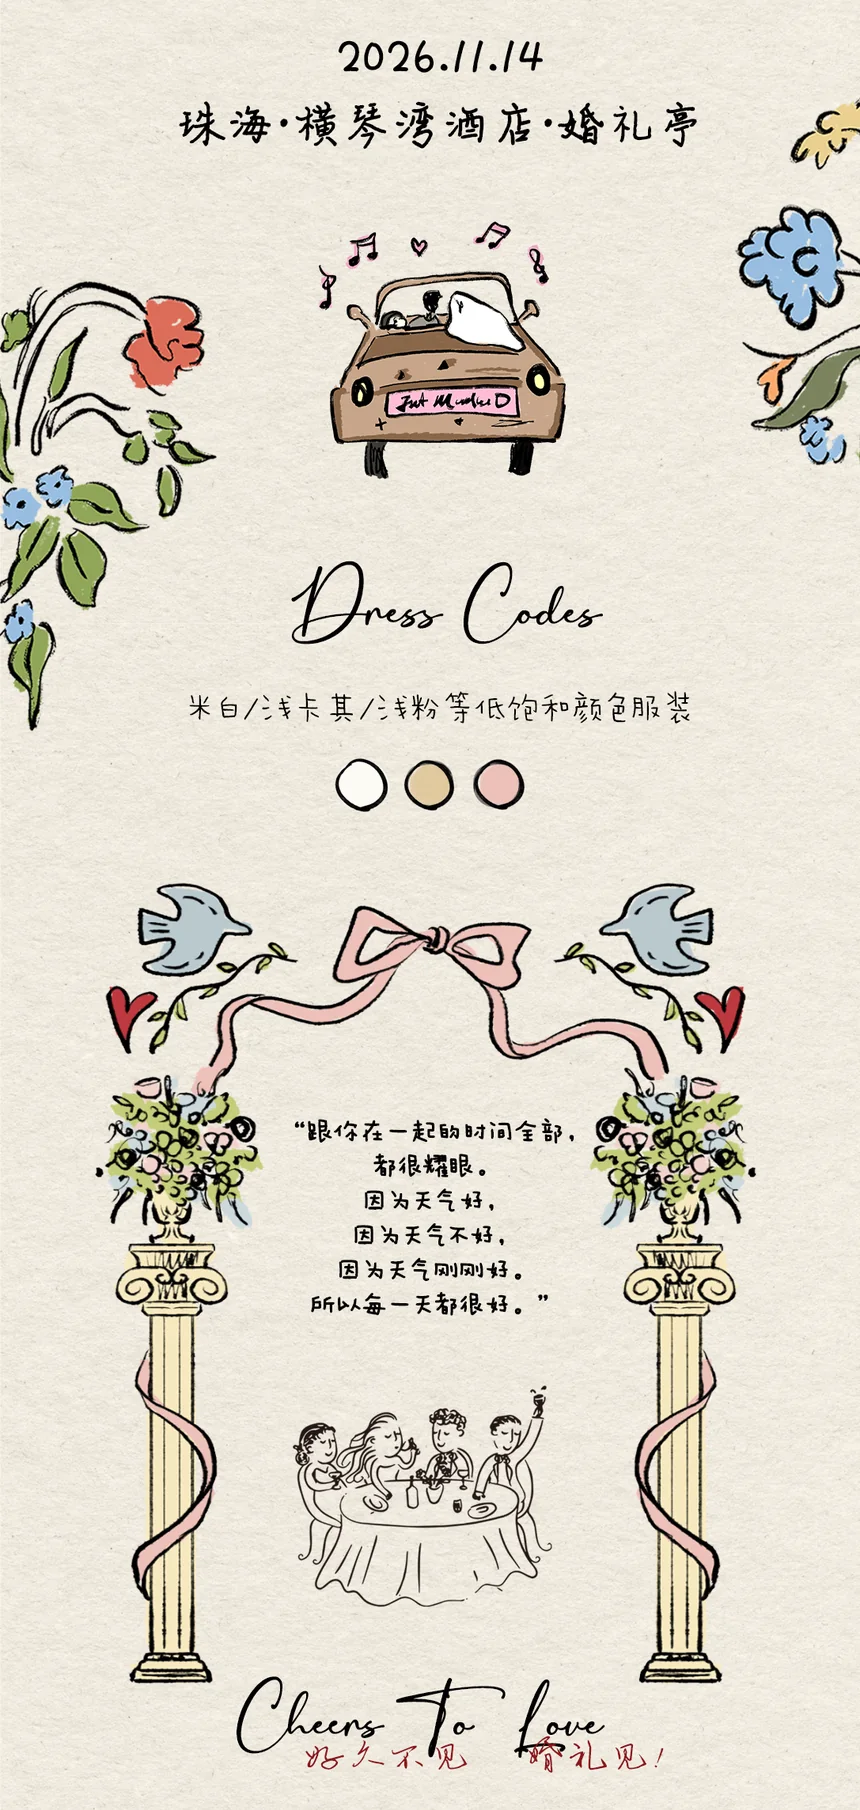
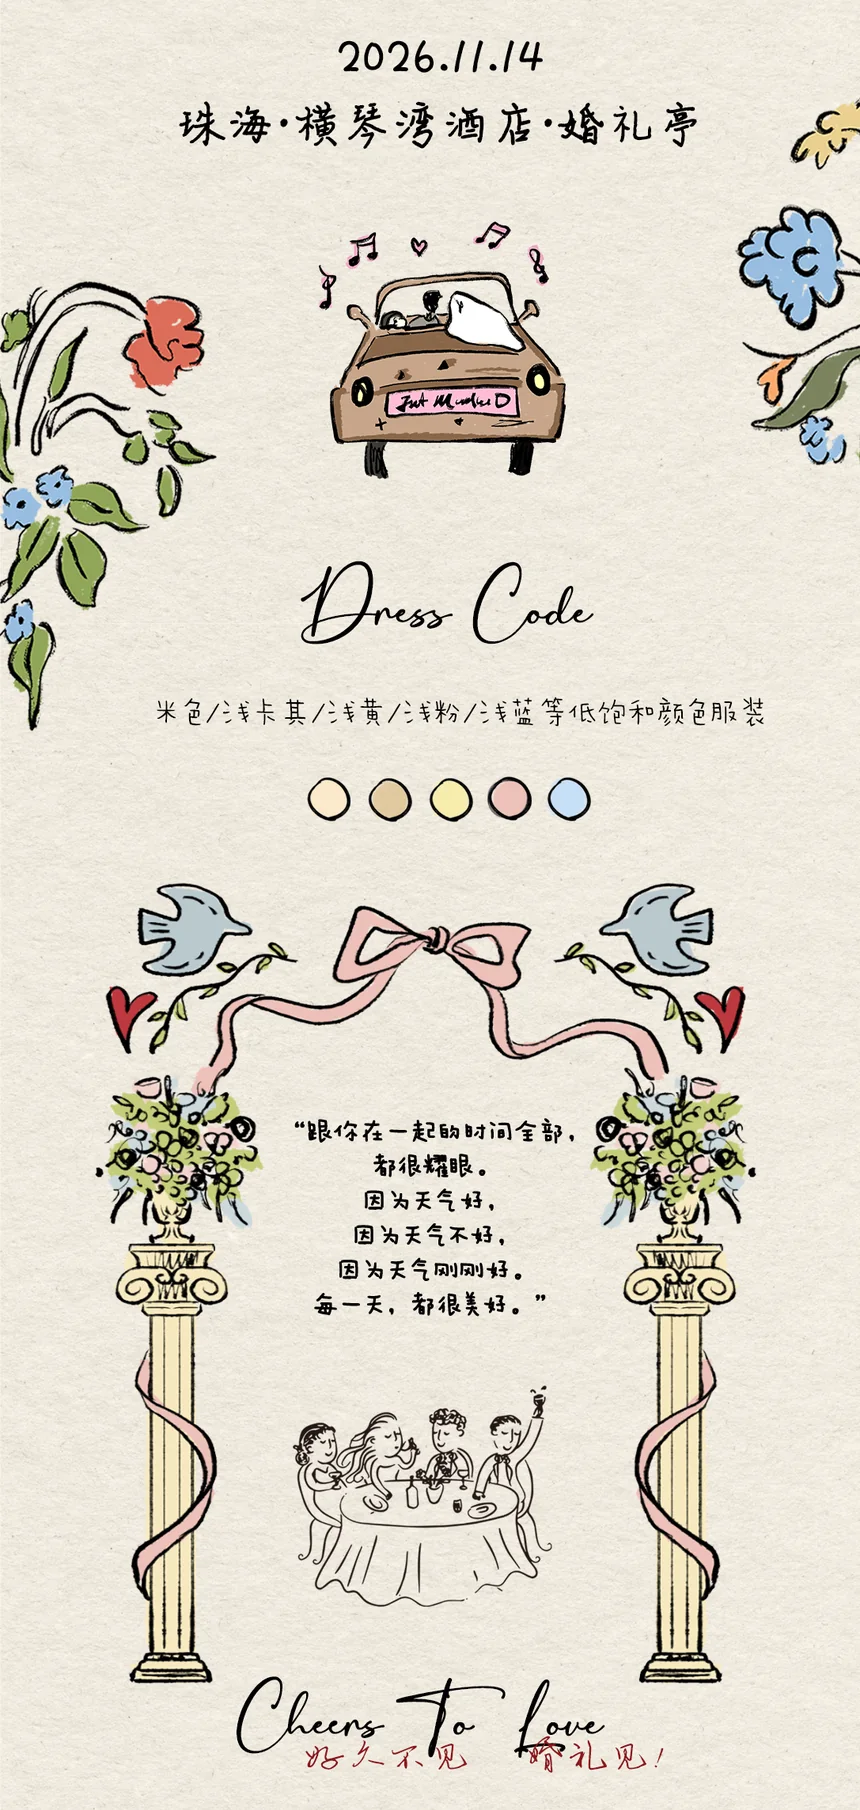
Re-cut from the revised artwork and follow the new dress code
The source illustration was reworked in three places, all inside the two page
images (nothing changed above row 3132, so the hero video and the cut points
at 2280 / 4105 are unaffected -- both still land on blank rows, ink 0-2):

  - Timeline 16:00 icon: camera -> scroll and quill (the English artwork
    already used the scroll and quill, so this aligns zh with en)
  - Dress code: title Dress Codes -> Dress Code, three swatches -> five, and
    the caption now reads cream / light khaki / pale yellow / blush pink /
    light blue
  - Closing quote: the last line is now 每一天，都很美好。

The dress code is described in eight places, not one -- the notice page in
both languages, the .ics description, both page-image alt texts, and the
wallet-card generator outside this repo. All eight are updated here so the
site does not contradict the artwork. The swatch colours are sampled from the
new artwork itself (#fbe9ca / #e0c99e / #f6ecab / #ecc0b8 / #c6dff7) rather
than reused from the old hand-tuned values, which no longer describe the
colours that are drawn.

en/assets/*.webp are byte-identical: invitation_eng.png was not revised, so
its dress code still shows three swatches and the old caption. Its text
already matches the new artwork everywhere else.

Changed region(s): [[0.1814, 0.3094, 0.8767, 0.4641], [0.4837, 0.7116, 0.6047, 0.7425], [0.3628, 0.7116, 0.4535, 0.7425]]

diff --git a/notice-en.html b/notice-en.html
@@ -67,11 +67,13 @@
   <!-- DRESS CODE -->
   <section class="card" id="dress">
     <h2><span class="em">👔</span>Dress Code<span class="en">What to wear</span></h2>
-    <p class="lede"><b>Soft, muted tones</b> — off-white, sand and pale pink all work beautifully. The ceremony is on a lawn, so block heels or flats are kinder to your feet.</p>
+    <p class="lede"><b>Soft, muted tones</b> — cream, light khaki, pale yellow, blush pink and light blue all work beautifully. The ceremony is on a lawn, so block heels or flats are kinder to your feet.</p>
     <div class="swatches">
-      <span class="sw"><i style="background:#f3ede1"></i>Off-white</span>
-      <span class="sw"><i style="background:#d9c8a4"></i>Sand</span>
-      <span class="sw"><i style="background:#e9c7c3"></i>Pale pink</span>
+      <span class="sw"><i style="background:#fbe9ca"></i>Cream</span>
+      <span class="sw"><i style="background:#e0c99e"></i>Light khaki</span>
+      <span class="sw"><i style="background:#f6ecab"></i>Pale yellow</span>
+      <span class="sw"><i style="background:#ecc0b8"></i>Blush pink</span>
+      <span class="sw"><i style="background:#c6dff7"></i>Light blue</span>
     </div>
   </section>
 

diff --git a/notice.html b/notice.html
@@ -67,11 +67,13 @@
   <!-- 着装建议 -->
   <section class="card" id="dress">
     <h2><span class="em">👔</span>着装建议<span class="en">Dress Code</span></h2>
-    <p class="lede"><b>低饱和浅色系</b> —— 米白、浅卡其、浅粉都很合适。仪式在户外草地，建议选<b>低跟或粗跟鞋</b>，走在草坪上更稳。</p>
+    <p class="lede"><b>低饱和浅色系</b> —— 米色、浅卡其、浅黄、浅粉、浅蓝都很合适。仪式在户外草地，建议选<b>低跟或粗跟鞋</b>，走在草坪上更稳。</p>
     <div class="swatches">
-      <span class="sw"><i style="background:#f3ede1"></i>米白</span>
-      <span class="sw"><i style="background:#d9c8a4"></i>浅卡其</span>
-      <span class="sw"><i style="background:#e9c7c3"></i>浅粉</span>
+      <span class="sw"><i style="background:#fbe9ca"></i>米色</span>
+      <span class="sw"><i style="background:#e0c99e"></i>浅卡其</span>
+      <span class="sw"><i style="background:#f6ecab"></i>浅黄</span>
+      <span class="sw"><i style="background:#ecc0b8"></i>浅粉</span>
+      <span class="sw"><i style="background:#c6dff7"></i>浅蓝</span>
     </div>
   </section>
 

diff --git a/en/index.html b/en/index.html
@@ -77,7 +77,7 @@
     <!-- 3 / 4 · Date, venue, dress code + message -->
     <section class="page">
       <img class="page-img" src="assets/pg3.webp"
-           alt="November 14, 2026 · Zhuhai · Hengqin Bay Hotel · Wedding Pavilion · Dress Code: soft, muted tones — off-white, light khaki, blush pink · Cheers To Love">
+           alt="November 14, 2026 · Zhuhai · Hengqin Bay Hotel · Wedding Pavilion · Dress Code: soft, muted tones — cream, light khaki, pale yellow, blush pink, light blue · Cheers To Love">
     </section>
 
     <!-- 4 / 4 · Actions (three entries only: RSVP / Guest Info / Calendar)

diff --git a/index.html b/index.html
@@ -77,7 +77,7 @@
     <!-- 3 / 4 · 日期场地着装 + 寄语 -->
     <section class="page">
       <img class="page-img" src="assets/pg3.webp"
-           alt="2026.11.14 珠海·横琴湾酒店·婚礼亭 · Dress Codes 米白/浅卡其/浅粉等低饱和颜色服装 · Cheers To Love 好久不见，婚礼见！">
+           alt="2026.11.14 珠海·横琴湾酒店·婚礼亭 · Dress Code 米色/浅卡其/浅黄/浅粉/浅蓝等低饱和颜色服装 · Cheers To Love 好久不见，婚礼见！">
     </section>
 
     <!-- 4 / 4 · 操作（只留三个入口：回复出席 / 宾客须知 / 保存到日历）
